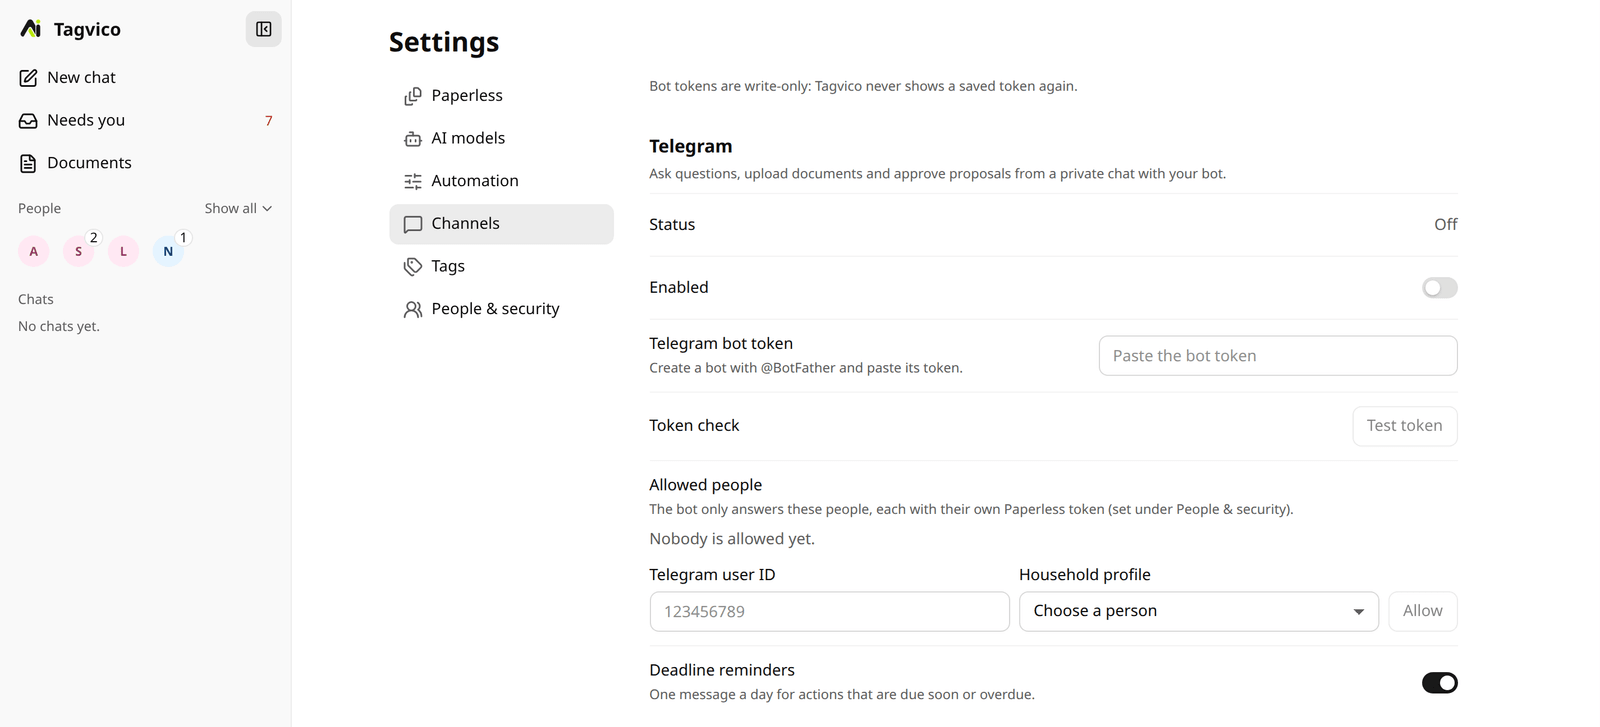
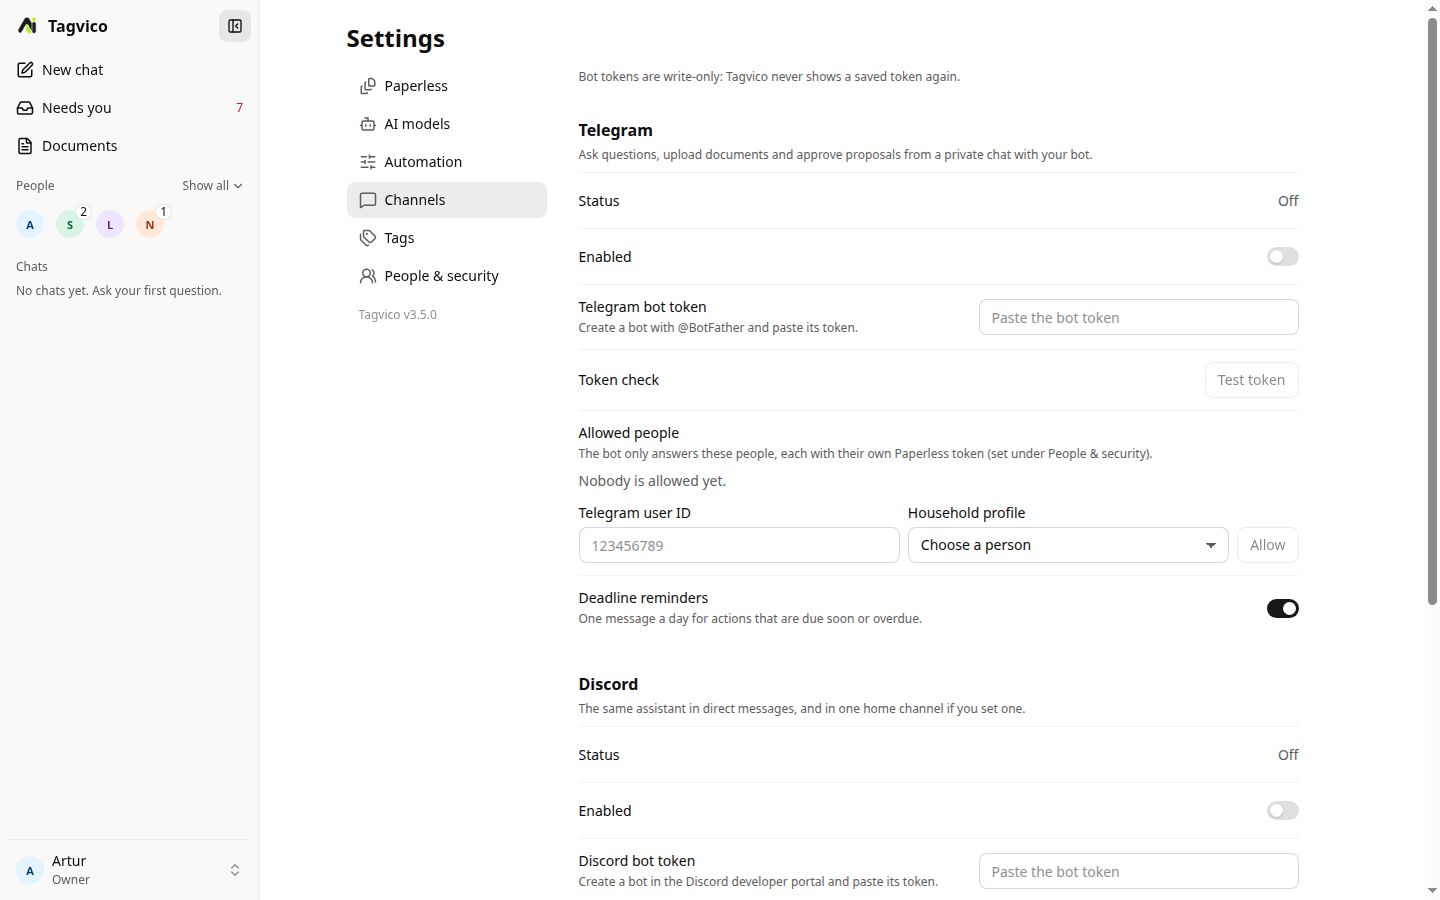
fix: model button keeps focus after a choice; fresh 3.5.0 README screenshots

diff --git a/src/components/chat/chat-model-chip.tsx b/src/components/chat/chat-model-chip.tsx
@@ -143,7 +143,9 @@ export function ChatModelChip({
       selection={selection ? { providerId: selection.providerInstanceId, modelId: selection.modelId } : null}
       onSelect={chooseModel}
       fallbackLabel={loading ? 'Loading models' : 'Choose a model'}
-      disabled={loading || saving}
+      // Not disabled while saving: the popover returns focus to this button on close, and a disabled
+      // button cannot take it. A second choice during a save simply wins.
+      disabled={loading}
       loading={loading}
       onRefresh={() => load(true)}
       globalShortcuts
